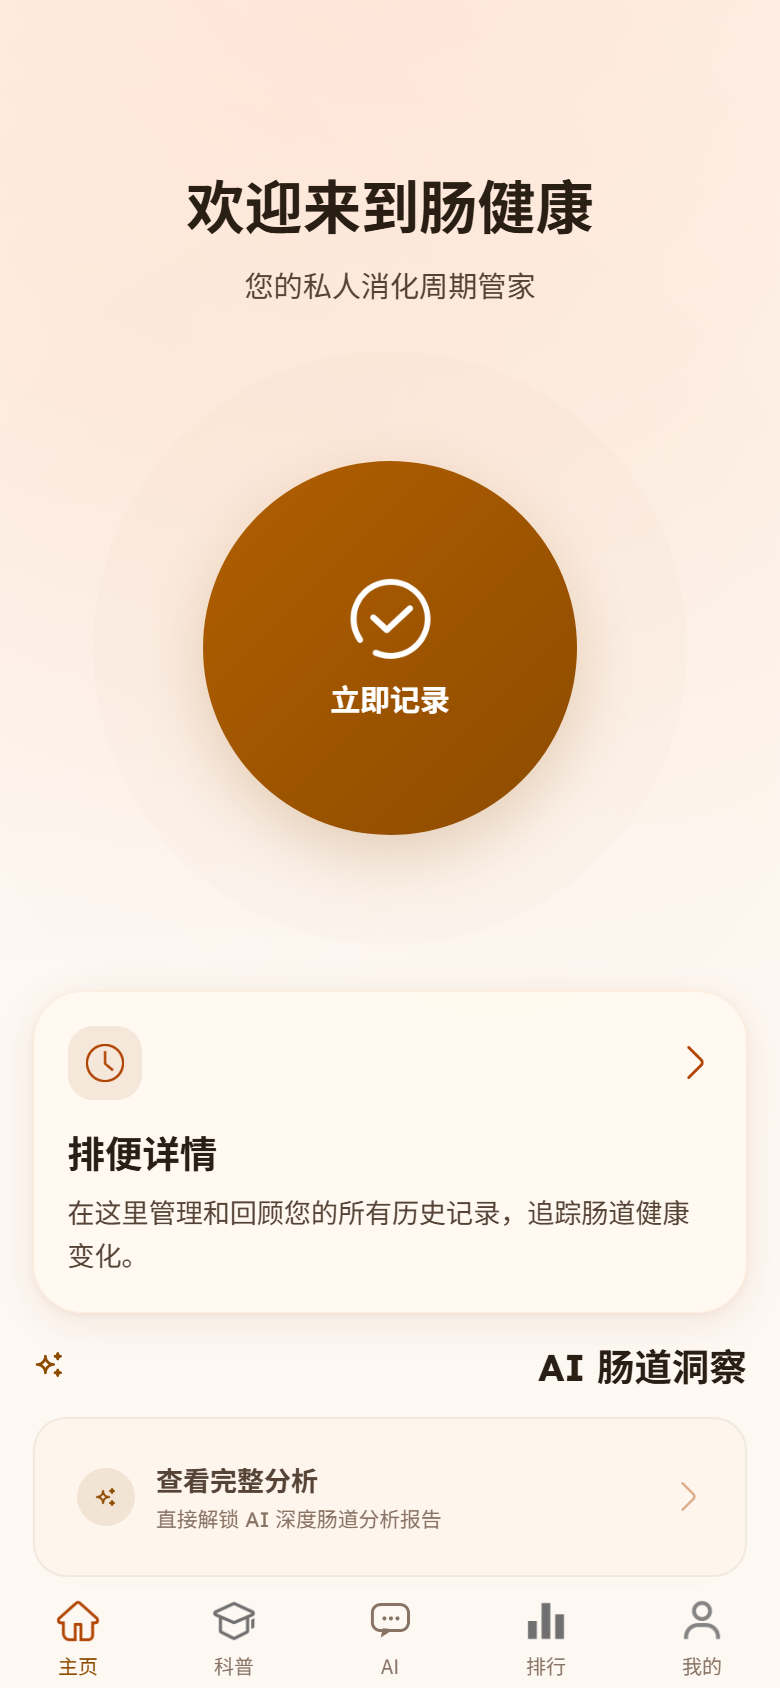
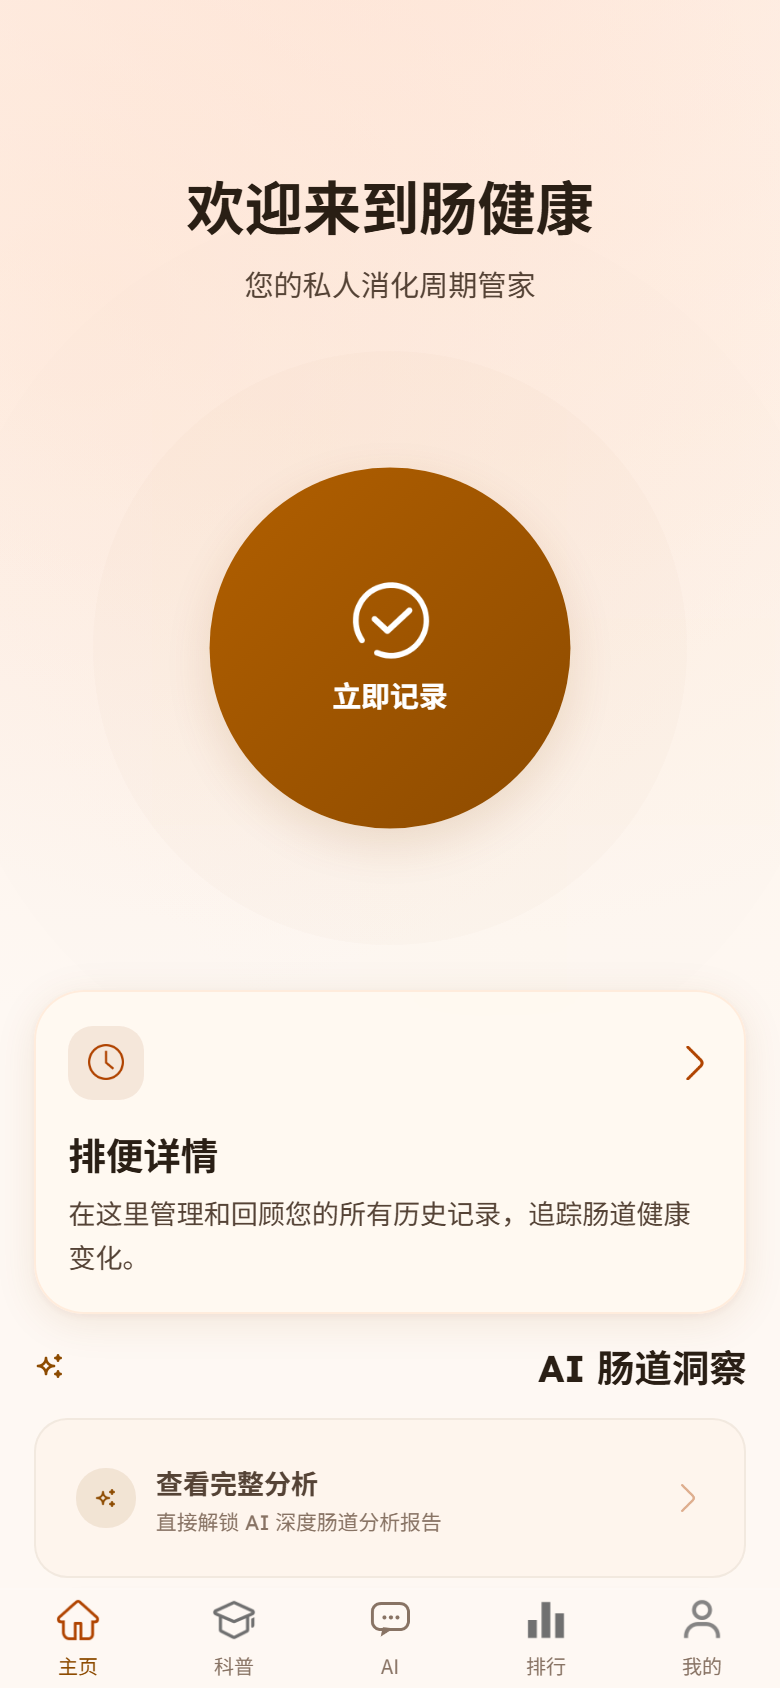
完善界面预览与目录说明

diff --git a/README.md b/README.md
@@ -1,42 +1,37 @@
 # Serene Gut 肠道健康管理应用
 
-Serene Gut 是一套面向肠道健康管理的应用，由微信小程序端和 Web 管理后台组成。用户在小程序里记录排便情况，包括布里斯托分类、排便时间、颜色、饮水量和膳食纤维，系统把这些记录整理成日、周、月统计与趋势。运营人员在管理后台维护文章、用户、记录和系统配置。
+Serene Gut 是一套面向肠道健康管理的应用，由微信小程序端和 Web 管理后台组成。用户在小程序里记录排便情况，包含布里斯托分类、排便时间、颜色、饮水量和膳食纤维，系统把这些记录整理成日、周、月统计与趋势。运营人员在管理后台维护文章、用户、记录和系统配置。
 
 两端都使用 uni-app 的 Vue 3 语法开发，后端基于 uniCloud 阿里云服务空间，数据存放在云数据库，业务逻辑集中在 client-api 和 admin-api 两个云函数里。
 
-## 界面预览
+## 小程序端
+
+### 界面预览
 
 <table>
   <tr>
-    <td><img src="docs/screenshots/home.png" width="200" alt="首页"></td>
-    <td><img src="docs/screenshots/bristol.png" width="200" alt="布里斯托分类法"></td>
-    <td><img src="docs/screenshots/type-select.png" width="200" alt="选择类型"></td>
-    <td><img src="docs/screenshots/timer.png" width="200" alt="记录计时"></td>
+    <td><img src="docs/screenshots/home.png" width="220" alt="首页"></td>
+    <td><img src="docs/screenshots/education.png" width="220" alt="科普"></td>
+    <td><img src="docs/screenshots/chat.png" width="220" alt="AI 健康助手"></td>
   </tr>
   <tr>
     <td align="center">首页</td>
-    <td align="center">布里斯托分类法</td>
-    <td align="center">选择类型</td>
-    <td align="center">记录计时</td>
-  </tr>
-</table>
-
-<table>
-  <tr>
-    <td><img src="docs/screenshots/settings.png" width="200" alt="设置与安全"></td>
-    <td><img src="docs/screenshots/admin-login.png" width="360" alt="后台登录"></td>
-    <td><img src="docs/screenshots/admin-dashboard.png" width="520" alt="数据总览"></td>
+    <td align="center">科普</td>
+    <td align="center">AI 健康助手</td>
   </tr>
   <tr>
+    <td><img src="docs/screenshots/ranking.png" width="220" alt="排行榜"></td>
+    <td><img src="docs/screenshots/profile.png" width="220" alt="我的"></td>
+    <td><img src="docs/screenshots/settings.png" width="220" alt="设置与安全"></td>
+  </tr>
+  <tr>
+    <td align="center">排行榜</td>
+    <td align="center">我的</td>
     <td align="center">设置与安全</td>
-    <td align="center">后台登录</td>
-    <td align="center">数据总览</td>
   </tr>
 </table>
 
-## 功能
-
-### 小程序端
+### 主要功能
 
 - 排便记录：布里斯托分类、排便时间、颜色、排便感受、饮水量、膳食纤维和备注，也支持计时记录
 - 统计分析：按日、周、月查看排便频率、趋势和活跃时间段
@@ -46,42 +41,70 @@ Serene Gut 是一套面向肠道健康管理的应用，由微信小程序端和
 - 提醒订阅：每日提醒推送，支持绑定华为手环同步健康数据
 - 账户管理：资料编辑、设备绑定、CSV 导出和账号注销
 
-### 管理后台
-
-- 数据总览：用户、记录和文章等核心指标与增长趋势
-- 用户管理：查询用户，按指定时长封禁或解封
-- 健康记录：查看用户提交的记录
-- 科普文章：发布、编辑、上下架和分类管理
-- 合作信息、广告管理和排行榜维护
-- 公告管理：跑马灯公告和弹窗公告
-- 系统管理：管理员、角色、权限、菜单、AI 模型和同步配置
-
-## 目录结构
+### 目录结构
 
 ```
-.
-├── serenegut-C/              小程序端
-│   ├── pages/                页面
-│   ├── components/           通用组件
-│   ├── js_sdk/sg-client/     接口封装
-│   ├── uniCloud-aliyun/      云函数与数据库结构
-│   └── static/               图片与图标
-├── serenegut-admin/          管理后台
-│   ├── pages/                页面
-│   ├── uni_modules/          uni-admin 组件与云函数
-│   ├── uniCloud-aliyun/      云函数与数据库结构
-│   └── store/                状态管理
-└── docs/screenshots/         界面截图
+serenegut-C
+├── pages
+│   ├── index/index.vue                  首页
+│   ├── education/education.vue          科普
+│   ├── chat/chat.vue                    AI 健康助手
+│   ├── ranking/ranking.vue              排行榜
+│   ├── profile/profile.vue              我的
+│   ├── health
+│   │   ├── bristol/bristol.vue           布里斯托分类法
+│   │   ├── record/record.vue             记录详情
+│   │   ├── statistics/statistics.vue     统计分析
+│   │   ├── timer/timer.vue               计时记录
+│   │   └── type-select/type-select.vue   选择类型
+│   ├── content
+│   │   ├── article/article.vue           文章详情
+│   │   ├── article-list/article-list.vue 科普列表
+│   │   └── contact/contact.vue           商务合作
+│   ├── user-settings
+│   │   ├── settings/settings.vue         设置与安全
+│   │   ├── edit-profile/edit-profile.vue 资料编辑
+│   │   └── devices/devices.vue           设备绑定
+│   ├── others
+│   │   ├── ai-analysis/ai-analysis.vue   AI 分析报告
+│   │   └── nav-demo/nav-demo.vue         导航栏演示
+│   └── admin/sync-config/sync-config.vue 同步配置
+├── components
+│   ├── custom-nav/custom-nav.vue         自定义导航栏
+│   ├── AppIcon/AppIcon.vue               图标组件
+│   ├── FloatingRecordButton              悬浮记录按钮
+│   ├── TimePicker/TimePicker.vue         时间选择
+│   ├── DatePicker/DatePicker.vue         日期选择
+│   ├── CustomCalendar.vue                日历
+│   ├── ConfirmModal/ConfirmModal.vue     确认弹窗
+│   ├── InputModal/InputModal.vue         输入弹窗
+│   ├── AnnouncementModal                 公告弹窗
+│   ├── CustomToast/CustomToast.vue       轻提示
+│   ├── MenstruationModal                 经期弹窗
+│   └── article-list/article-list.vue     文章卡片
+├── js_sdk/sg-client/api.js              云函数调用封装
+├── plugins/toast.js                     全局轻提示插件
+├── utils/sync.js                        本地队列与批量同步
+├── static
+│   ├── images                           品牌图与底栏图标
+│   └── icons                            功能图标
+├── uniCloud-aliyun
+│   ├── cloudfunctions
+│   │   ├── client-api/index.js          小程序业务云函数
+│   │   └── common/uni-config-center     公共配置模块
+│   └── database                         数据库结构定义
+├── App.vue                              应用生命周期
+├── main.js                              应用入口
+├── pages.json                           页面与底栏配置
+├── manifest.json                        应用与小程序配置
+├── uni.scss                             全局样式变量
+├── index.html                           H5 模板
+├── package.json                         依赖与编译脚本
+├── vite.config.js                       Vite 配置
+└── uni.promisify.adaptor.js             Promise 适配
 ```
 
-## 环境准备
-
-- HBuilderX 4.24 或更高版本
-- 微信开发者工具
-- uniCloud 阿里云服务空间
-- Node.js 18 以上，仅在使用命令行编译时需要
-
-## 小程序端部署
+### 部署步骤
 
 1. 用 HBuilderX 导入 serenegut-C 目录。
 2. 右键 uniCloud-aliyun，选择关联云服务空间。没有服务空间时先到 uniCloud 控制台创建。
@@ -94,7 +117,99 @@ Serene Gut 是一套面向肠道健康管理的应用，由微信小程序端和
 9. 订阅消息模板 ID 在 client-api 顶部的 REMINDER_TEMPLATE_ID 中修改，替换成微信公众平台申请到的模板。
 10. 发布时使用 HBuilderX 的发行菜单，发行到小程序，上传代码后在微信公众平台提交审核。
 
-## 管理后台部署
+## 管理后台
+
+### 界面预览
+
+<table>
+  <tr>
+    <td><img src="docs/screenshots/admin-login.png" width="420" alt="后台登录"></td>
+    <td><img src="docs/screenshots/admin-dashboard.png" width="420" alt="数据总览"></td>
+  </tr>
+  <tr>
+    <td align="center">登录</td>
+    <td align="center">数据总览</td>
+  </tr>
+  <tr>
+    <td><img src="docs/screenshots/admin-records.png" width="420" alt="健康记录"></td>
+    <td><img src="docs/screenshots/admin-rankings.png" width="420" alt="排行榜管理"></td>
+  </tr>
+  <tr>
+    <td align="center">健康记录</td>
+    <td align="center">排行榜管理</td>
+  </tr>
+  <tr>
+    <td><img src="docs/screenshots/admin-settings.png" width="420" alt="系统设置"></td>
+    <td><img src="docs/screenshots/admin-menu.png" width="420" alt="菜单管理"></td>
+  </tr>
+  <tr>
+    <td align="center">系统设置</td>
+    <td align="center">菜单管理</td>
+  </tr>
+</table>
+
+### 主要功能
+
+- 数据总览：用户、记录和文章等核心指标与增长趋势
+- 用户管理：查询用户，按指定时长封禁或解封
+- 健康记录：查看用户提交的记录
+- 科普文章：发布、编辑、上下架和分类管理
+- 合作信息、广告管理和排行榜维护
+- 公告管理：跑马灯公告和弹窗公告
+- 系统管理：管理员、角色、权限、菜单、AI 报告和系统设置
+
+### 目录结构
+
+```
+serenegut-admin
+├── pages
+│   ├── index/index.vue                  数据总览
+│   ├── error/404.vue                    错误页
+│   ├── business
+│   │   ├── users/list.vue               用户管理
+│   │   ├── records/list.vue             健康记录
+│   │   ├── articles/list.vue            文章列表
+│   │   ├── articles/edit.vue            文章编辑
+│   │   ├── rankings/list.vue            排行榜管理
+│   │   ├── cooperation/list.vue         合作信息
+│   │   ├── ad/list.vue                  广告管理
+│   │   ├── devices/list.vue             设备管理
+│   │   ├── ranking-notice/list.vue      跑马灯公告
+│   │   └── settings/list.vue            系统设置
+│   └── system
+│       ├── user/list.vue                管理员用户
+│       ├── role/list.vue                角色管理
+│       ├── permission/list.vue          权限管理
+│       ├── menu/list.vue                菜单管理
+│       ├── announcement/list.vue        系统公告
+│       └── ai-report/list.vue           AI 报告管理
+├── windows
+│   ├── leftWindow.vue                   左侧菜单容器
+│   └── topWindow.vue                    顶部容器
+├── components                           后台通用组件
+├── common                               主题变量与公共样式
+├── store                                状态管理
+├── i18n                                 多语言文案
+├── js_sdk/uni-admin                     后台插件
+├── uni_modules                          uni-admin 组件与云函数
+├── uniCloud-aliyun
+│   ├── cloudfunctions/admin-api         后台业务云函数
+│   └── database                         菜单、公告与 uni-id 结构
+├── admin.config.js                      登录页与导航配置
+├── App.vue                              应用生命周期
+├── main.js                              应用入口
+├── pages.json                           页面配置
+├── manifest.json                        应用与 H5 配置
+├── uni.scss                             全局样式变量
+├── index.html                           H5 模板
+├── template.h5.html                     H5 页面模板
+├── package.json                         项目信息
+├── vue.config.js                        打包配置
+├── postcss.config.js                    PostCSS 配置
+└── prettier.config.js                   代码格式配置
+```
+
+### 部署步骤
 
 1. 用 HBuilderX 导入 serenegut-admin 目录。
 2. 关联与小程序端相同的云服务空间。两端必须使用同一个空间，否则读写的是不同的数据库。
@@ -103,14 +218,16 @@ Serene Gut 是一套面向肠道健康管理的应用，由微信小程序端和
 5. 打开 database 目录，上传 announcements、opendb-admin-menus、uni-id-users、uni-id-roles、uni-id-permissions、uni-id-log 和 opendb-verify-codes 的结构。
 6. 运行到浏览器。首次进入会引导创建超级管理员，按页面提示填写账号和密码。
 7. 登录后进入系统管理里的菜单管理，点击初始化菜单并导入 opendb-admin-menus.init_data.json，刷新页面后左侧菜单才会完整显示。
-8. 在系统管理的系统设置里填写 AI 模型的 api_url、api_key 和 model。保存之后小程序端的 AI 对话和分析报告才能正常工作。
+8. 在系统管理里的系统设置中配置 AI 模型、功能开关和华为运动健康参数。保存之后小程序端的 AI 对话和分析报告才能正常工作。
 9. 发布时使用 HBuilderX 的发行菜单，发行到网站。产物在 unpackage/dist/build/web，可以部署到 uniCloud 前端网页托管，也可以放到自己的服务器。
 10. 后台部署到自有域名后，需要到 uniCloud 控制台的跨域配置里加入该域名，否则浏览器会拦截云函数请求。
 
-## 接口与数据
+## 数据结构与接口
 
 - client-api 按 module 分发小程序请求，模块包括 user、records、article、ranking、config、auth、sync、ai、announcement、bristol、reminder 和 device。
 - admin-api 提供管理后台接口，模块包括 dashboard、user、records、article、ranking、config、ai_model、announcement、device 和 menu。
+- 小程序端数据库包含 users、records、article、article_comment、announcements、app_config、ai_models、ai_reports、health_devices、health_metrics 和 reminder_subscriptions。
+- 管理后台数据库包含 announcements、opendb-admin-menus、uni-id-users、uni-id-roles、uni-id-permissions、uni-id-log 和 opendb-verify-codes。
 - 数据库结构放在两端的 uniCloud-aliyun/database 目录，修改 schema 后需要重新上传。
 
 ## 注意事项
@@ -120,10 +237,7 @@ Serene Gut 是一套面向肠道健康管理的应用，由微信小程序端和
 - AI 对话使用 OpenAI 兼容接口，当前默认接入 DeepSeek，可以在后台切换服务商。
 - 小程序发布前需要在微信公众平台配置服务器域名和订阅消息模板。
 
-## 开发时间
+## 开发信息
 
-2026 年 6 月至 2026 年 8 月。
-
-## 联系方式
-
-邮箱：rjxiaofj@gmail.com
+- 开发时间：2026 年 6 月至 2026 年 8 月
+- 联系邮箱：rjxiaofj@gmail.com
